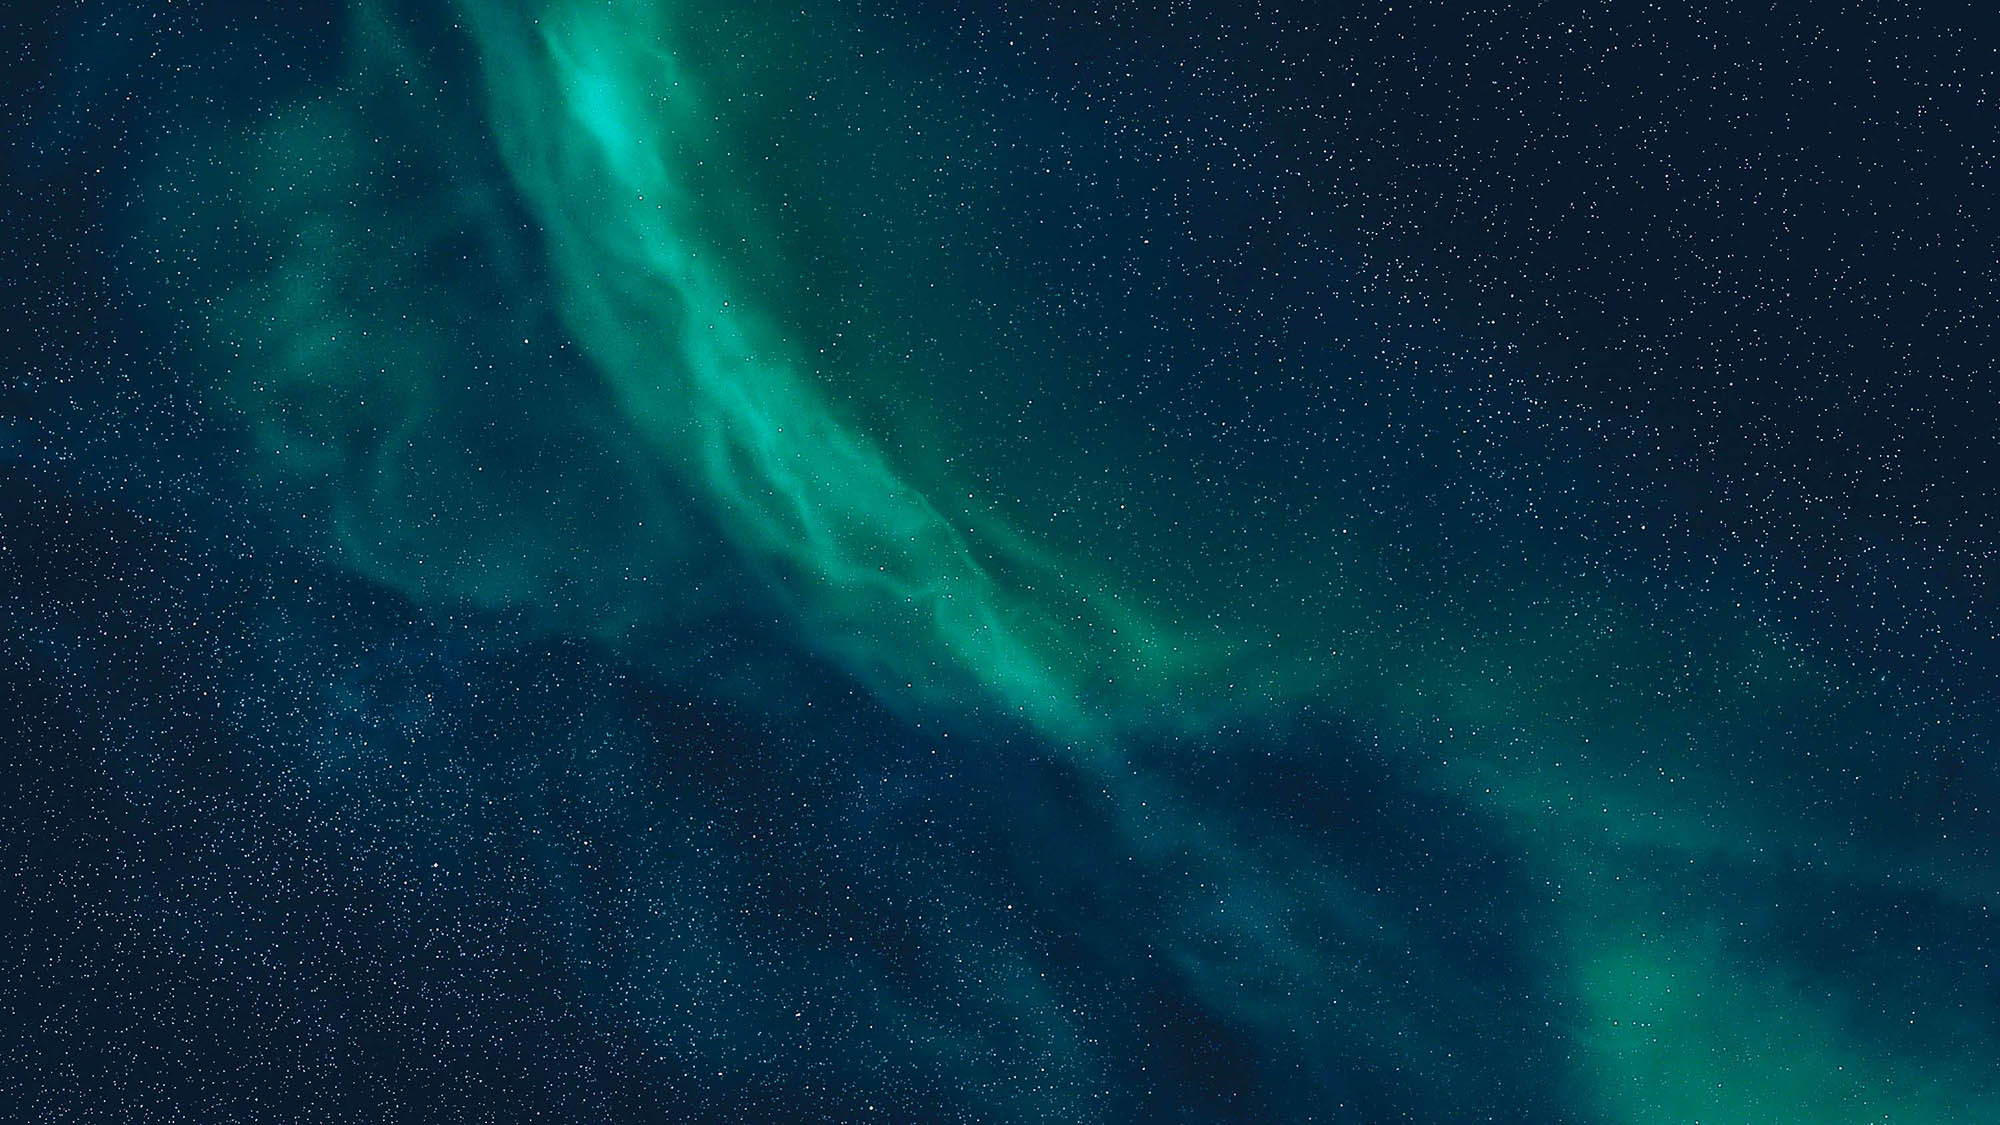
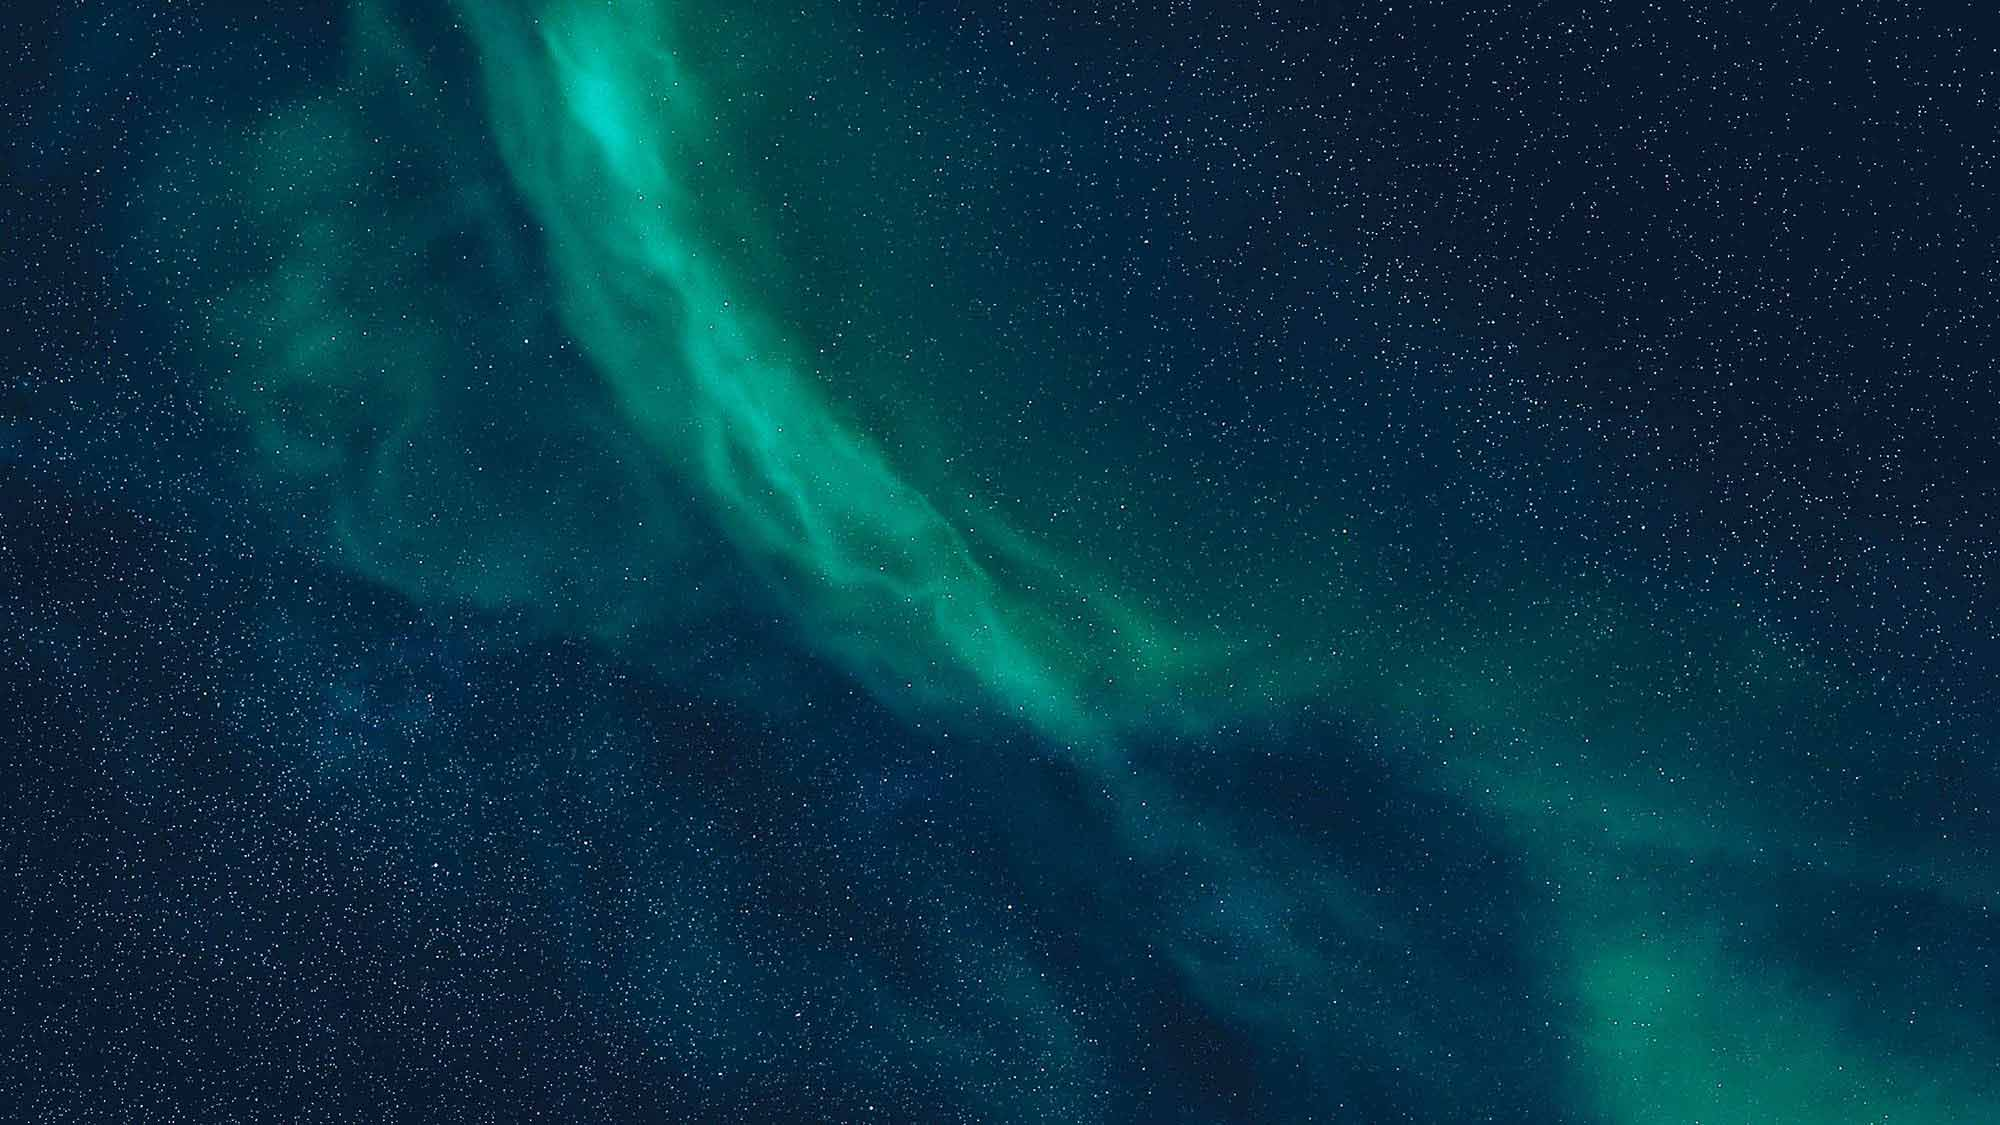
improved size of main welcome pic and bg colour

diff --git a/django/core/static/css/custom.css b/django/core/static/css/custom.css
@@ -237,7 +237,7 @@ button[type='submit']:hover {
     background-repeat: no-repeat;
     background-size: cover;
     background-position: center;
-    background-color: black;
+    background-color: #082e41;
     background-attachment: fixed;
 }
 
